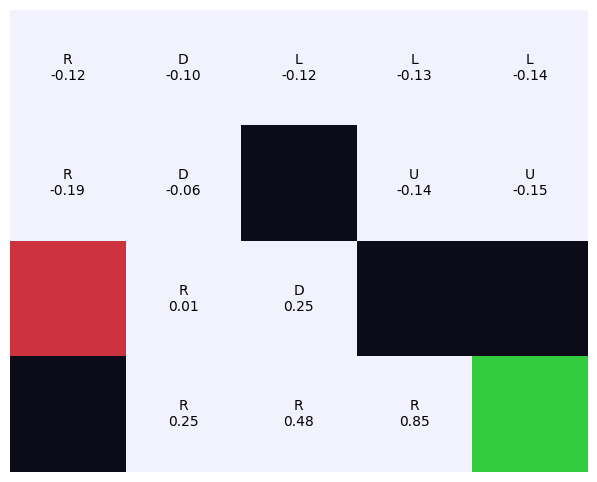
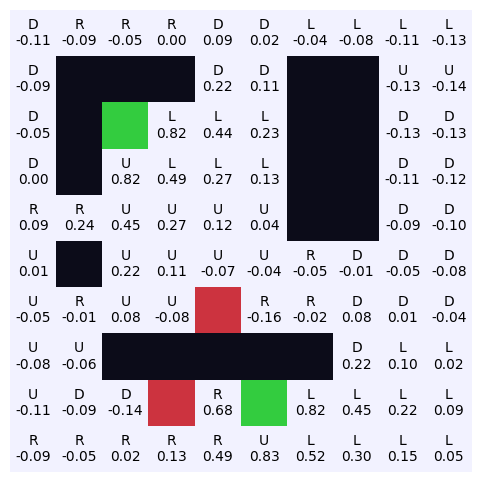
Grid from string

diff --git a/Assignment04/src/main.py b/Assignment04/src/main.py
@@ -3,20 +3,33 @@ from grid import Grid
 from value_iter import ValueIter
 from q_learning import QLearning
 
-if __name__ == "__main__":
-    width, height = (5, 4)
-    grid = Grid(width, height)
-    grid.grid[7] = Field.WALL
-    grid.grid[10] = Field.NEG_REWARD
-    grid.grid[13] = Field.WALL
-    grid.grid[14] = Field.WALL
-    grid.grid[15] = Field.WALL
-    grid.grid[19] = Field.REWARD
+small = """
+___+
+_#_-
+____
+"""
 
-    vi = ValueIter(grid)
+large = """
+__________
+_###__##__
+_#+___##__
+_#____##__
+______##__
+_#________
+____-_____
+__#####___
+___-_+____
+__________
+"""
+
+if __name__ == "__main__":
+    grid_small = Grid.from_string(small)
+    grid_large = Grid.from_string(large)
+
+    vi = ValueIter(grid_large)
     vi.iterate()
     vi.show_figure()
 
-    ql = QLearning(grid)
+    ql = QLearning(grid_large)
     ql.play()
     ql.show_figure()

diff --git a/Assignment04/src/grid.py b/Assignment04/src/grid.py
@@ -14,6 +14,24 @@ class Grid():
 
         self.reset_pos()
     
+    @classmethod
+    def from_string(cls, s):
+        lines = s.split("\n")
+        lines = list(filter(None, lines))
+
+        width = len(lines[0])
+        height = len(lines)
+        grid = cls(width, height)
+
+        i = 0
+        for row in lines:
+            for c in row:
+                field = Field(c)
+                grid.grid[i] = field
+                i += 1
+        
+        return grid
+
     def reset_pos(self):
         self.pos = random.randrange(0, self.size)
 
